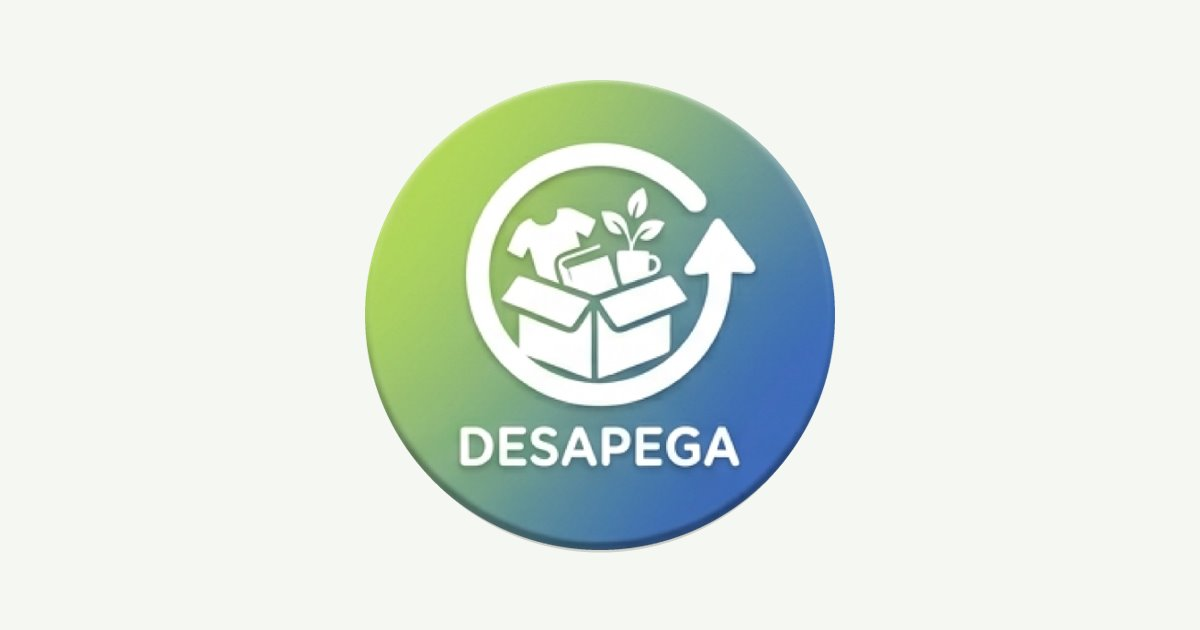
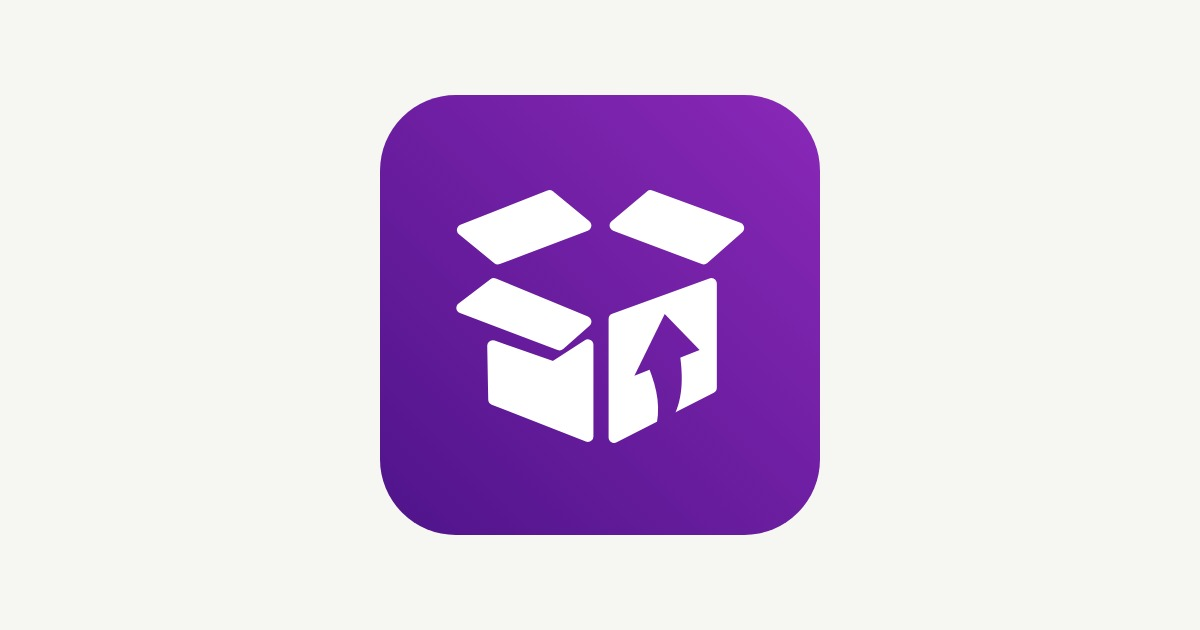
Novo ícone do app: caixa roxa, desenhada em vetor (#42)
Ícones PNG, imagem de compartilhamento e ícone do iPhone gerados a partir de
icons/icon.svg por scripts/build-icons.mjs.

Changed region(s): [[0.2775, 0.1206, 0.7092, 0.8746]]

diff --git a/index.html b/index.html
@@ -12,7 +12,7 @@
   <meta property="og:type" content="website">
   <link rel="manifest" href="manifest.webmanifest">
   <link rel="icon" href="icons/favicon.png" type="image/png">
-  <link rel="apple-touch-icon" sizes="180x180" href="icons/apple-touch-icon.png?v=2">
+  <link rel="apple-touch-icon" sizes="180x180" href="icons/apple-touch-icon.png?v=3">
   <meta name="apple-mobile-web-app-capable" content="yes">
   <meta name="apple-mobile-web-app-status-bar-style" content="default">
   <meta name="apple-mobile-web-app-title" content="Desapega">

diff --git a/sw.js b/sw.js
@@ -1,6 +1,6 @@
 // Service worker: deixa o app abrir rápido e funcionar com internet ruim.
 // Arquivos do app: rede primeiro, cache como reserva. Dados do Supabase: sempre da rede.
-const CACHE = 'desapego-v41';
+const CACHE = 'desapego-v42';
 const SHELL = [
   './',
   'index.html',
